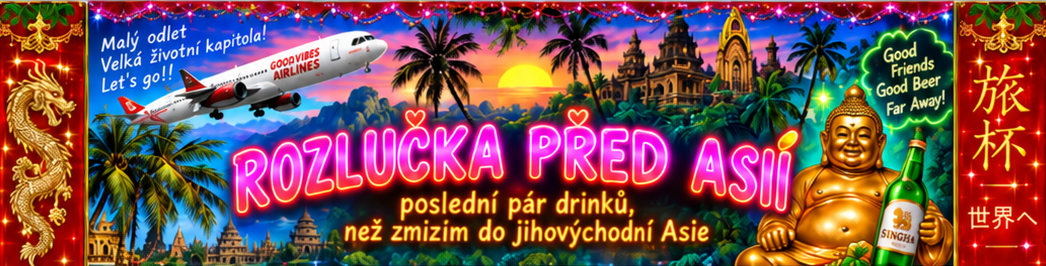
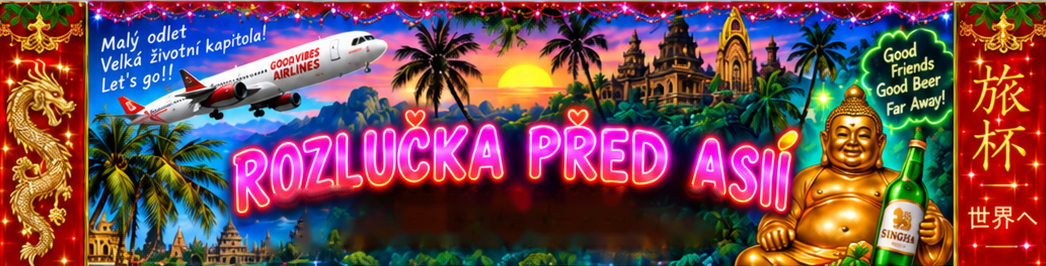
fix: typo

Changed region(s): [[0.2447, 0.6917, 0.7036, 0.9624], [0.2447, 0.6917, 0.3365, 0.782], [0.6424, 0.6917, 0.7036, 0.7519]]

diff --git a/index.html b/index.html
@@ -343,6 +343,22 @@
       font-size: 14px;
     }
 
+    /* tagline v heru jako HTML text (původní byl zapečený v obrázku) */
+    .tagline {
+      position: absolute;
+      left: 0; right: 0;
+      top: 72.3%;
+      margin: 0;
+      text-align: center;
+      font: 800 min(24.5px, 2.34vw)/1.1 "Baloo 2", "Segoe UI", sans-serif;
+      letter-spacing: .2px;
+      color: #ffe14d;
+      -webkit-text-stroke: 1.4px #7a1a00;
+      paint-order: stroke fill;
+      text-shadow: 0 0 6px #ff8c00, 0 0 14px #ff5a00, 0 0 26px rgba(255,70,0,.75), 2px 2px 0 #4a0000;
+      pointer-events: none;
+    }
+
     /* ---------- parádičky: letadlo, jiskry, květy, světýlka ---------- */
     .hero-wrap { position: relative; }
     .hero-wrap .fx { position: absolute; pointer-events: none; }
@@ -532,11 +548,12 @@
 <body>
   <main class="page" id="top">
     <div class="hero-wrap">
-      <img class="hero" src="assets/hero.png" alt="Rozlučka před Asií: poslední pár drinků, než zmizím do jihovýchodní Asie" />
+      <img class="hero" src="assets/hero.png" alt="Rozlučka před Asií" />
       <div class="fx lights" aria-hidden="true"></div>
       <div class="fx lights b" aria-hidden="true"></div>
       <div class="fx glow-neon" aria-hidden="true"></div>
       <div class="fx glow-buddha" aria-hidden="true"></div>
+      <p class="tagline">posledních pár drinků,<br>než zmizím do jihovýchodní Asie</p>
     </div>
 
     <div class="layout">
